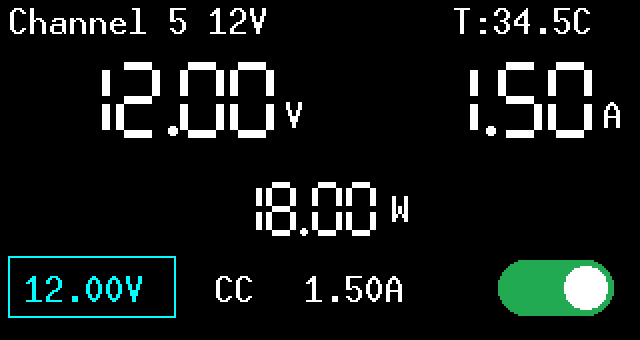
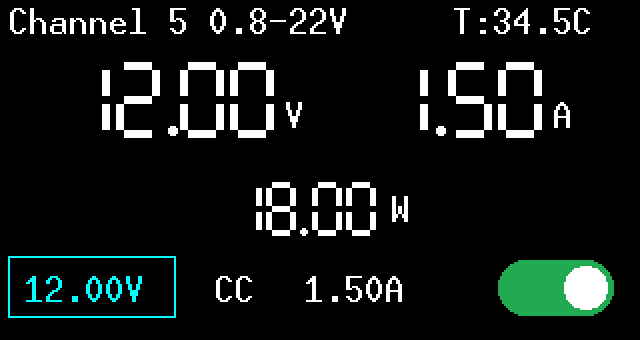
Restore left-aligned hero layout; headers show range for adjustable channels
The right-aligned fixed-unit experiment reads worse in practice; the
centered left-aligned layout returns unchanged. Headers show a single
nominal voltage where there is one (fixed channels, the PD contract) and
the adjustable range where there is not: 'Channel 5 0.8-22V'.

Changed region(s): [[0.6562, 0.1765, 0.9688, 0.4118], [0.3125, 0.0, 0.5625, 0.1176]]

diff --git a/Firmware/Rust/benchvolt-pd/src/view.rs b/Firmware/Rust/benchvolt-pd/src/view.rs
@@ -341,14 +341,7 @@ where
         };
         self.clear_detail_region(x - 7, 29, 151, 42);
 
-        // The unit letter sits at a fixed column on every screen; digits are
-        // right-aligned against it so varying digit counts never move it.
-        let suffix_x = x + 109;
-        let width: i32 = text
-            .chars()
-            .map(|character| if character == '.' { 7 } else { 25 })
-            .sum();
-        let mut cursor = suffix_x - 2 - width;
+        let mut cursor = x;
         for character in text.chars() {
             if character == '.' {
                 Circle::new(Point::new(cursor + 1, 34 + 29), 5)
@@ -363,7 +356,7 @@ where
         }
         Text::with_baseline(
             suffix,
-            Point::new(suffix_x, 48),
+            Point::new(cursor + 2, 48),
             MonoTextStyle::new(&FONT_10X20, Rgb565::WHITE),
             Baseline::Top,
         )
@@ -578,26 +571,44 @@ where
         .ok();
     }
 
-    /// Nominal voltage with no superfluous decimals: "12V", "1.8V", "12.34V".
-    fn write_nominal_volts(title: &mut String<32>, centivolts: u16) {
+    /// Voltage with no superfluous decimals: "12", "1.8", "12.34".
+    fn write_trimmed_volts(title: &mut String<32>, centivolts: u16) {
         let whole = centivolts / 100;
         let fraction = centivolts % 100;
         if fraction == 0 {
-            write!(title, "{whole}V").ok();
+            write!(title, "{whole}").ok();
         } else if fraction.is_multiple_of(10) {
-            write!(title, "{whole}.{}V", fraction / 10).ok();
+            write!(title, "{whole}.{}", fraction / 10).ok();
         } else {
-            write!(title, "{whole}.{fraction:02}V").ok();
+            write!(title, "{whole}.{fraction:02}").ok();
         }
     }
 
-    /// Header with the channel's nominal (setpoint) voltage, e.g.
-    /// "Channel 3 3.3V".
+    /// Header with the channel's nominal voltage (fixed channels) or its
+    /// adjustable range: "Channel 3 3.3V", "Channel 5 0.8-22V".
     fn draw_detail_title(&mut self, index: usize, projection: DetailProjection) {
         self.clear_detail_region(0, 0, 224, 22);
         let mut title: String<32> = String::new();
         write!(&mut title, "Channel {} ", index + 1).ok();
-        Self::write_nominal_volts(&mut title, projection.setpoint_centivolts);
+        let range_mv = match index {
+            3 => Some((
+                benchvolt_pd::limits::CH4_MIN_VOLTAGE_MV,
+                benchvolt_pd::limits::CH4_MAX_VOLTAGE_MV,
+            )),
+            4 => Some((
+                benchvolt_pd::limits::CH5_MIN_VOLTAGE_MV,
+                benchvolt_pd::limits::CH5_MAX_VOLTAGE_MV,
+            )),
+            _ => None,
+        };
+        if let Some((minimum, maximum)) = range_mv {
+            Self::write_trimmed_volts(&mut title, minimum / 10);
+            title.push('-').ok();
+            Self::write_trimmed_volts(&mut title, maximum / 10);
+        } else {
+            Self::write_trimmed_volts(&mut title, projection.setpoint_centivolts);
+        }
+        title.push('V').ok();
         Text::with_baseline(
             title.as_str(),
             Point::new(4, 1),
@@ -1388,10 +1399,6 @@ where
                     FramedValueDamage::Frame => self.draw_detail_setpoint(new),
                     FramedValueDamage::Value => self.draw_detail_setpoint_value(new),
                     FramedValueDamage::None => {}
-                }
-                if old.setpoint_centivolts != new.setpoint_centivolts {
-                    // The header shows the nominal (setpoint) voltage.
-                    self.draw_detail_title(index, new);
                 }
                 match framed_value_damage(
                     old.limit_centiamps,
